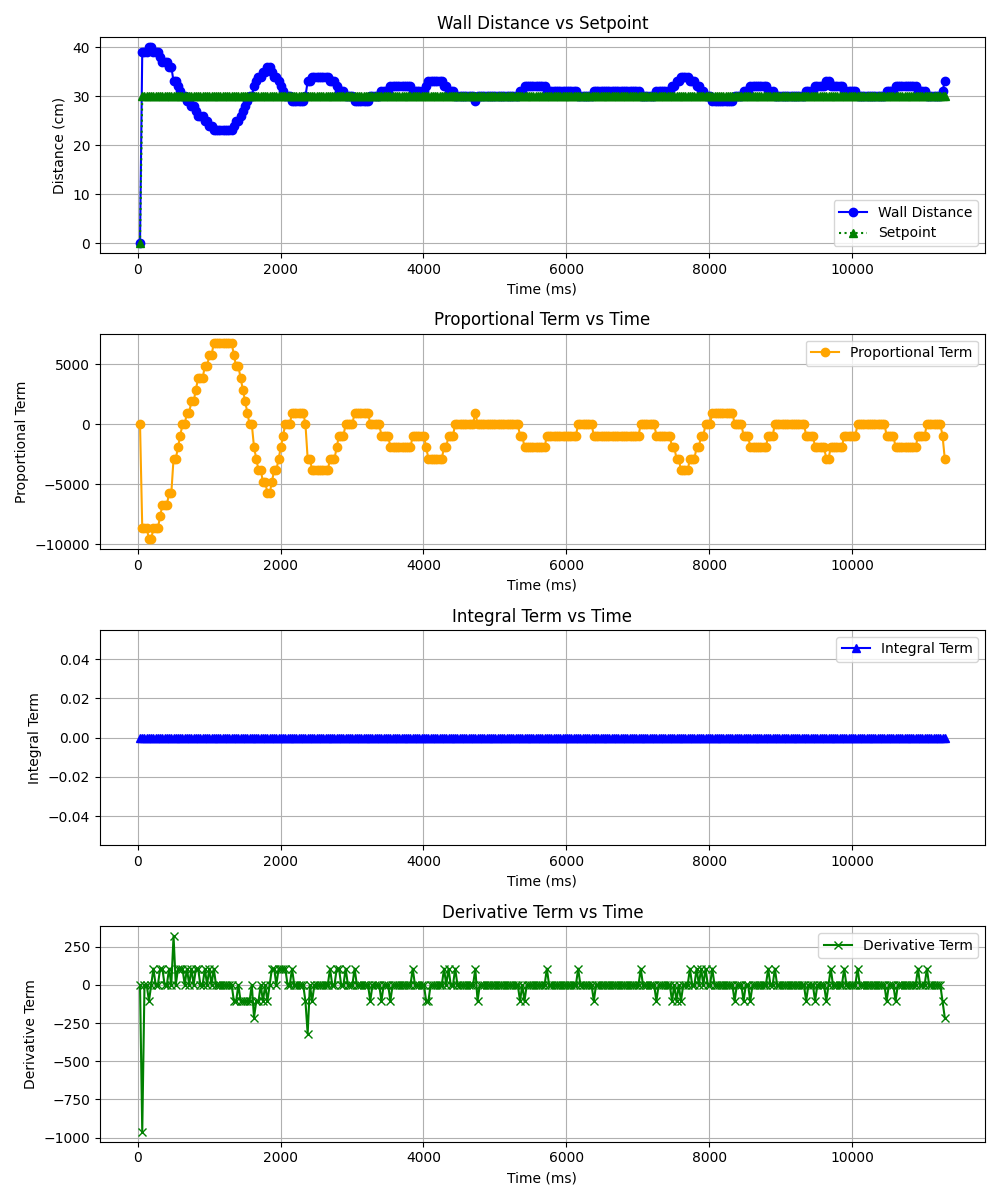
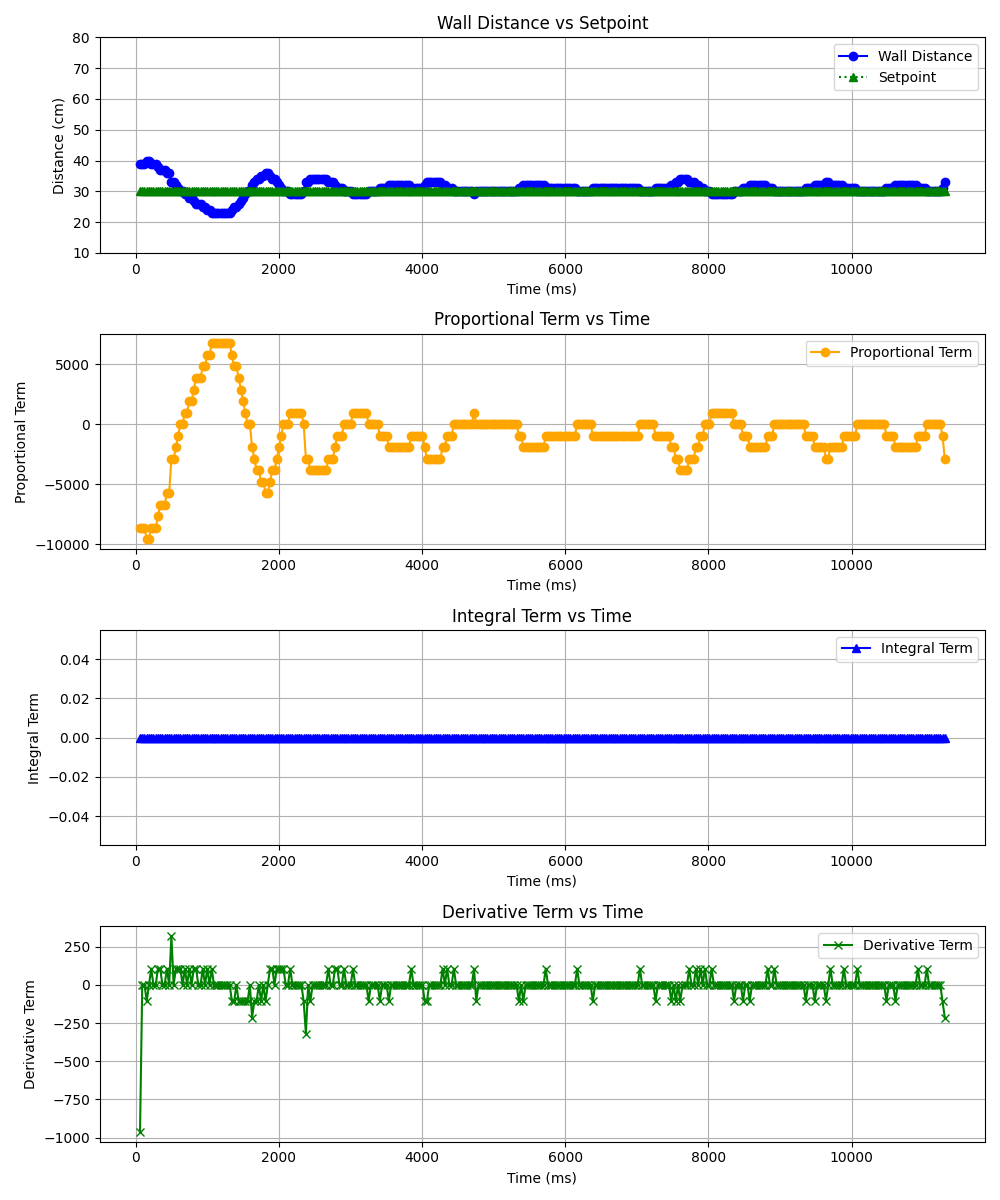
split up py scripts

diff --git a/script/pid_data_defs.py b/script/pid_data_defs.py
@@ -53,6 +53,7 @@ def plot(csv_filename,output_dir):
 		plt.xlabel('Time (ms)')
 		plt.ylabel('Distance (cm)')
 		plt.title('Wall Distance vs Setpoint')
+		plt.ylim(10,80)
 		plt.legend()
 		plt.grid(True)
 
@@ -89,6 +90,37 @@ def plot(csv_filename,output_dir):
 		# Generate output file path
 		filename = os.path.splitext(os.path.basename(csv_filename))[0]  # Get filename without extension
 		output_path = os.path.join(output_dir, f"{filename}.png")
+		
+
+		# Save plot as PNG
+		plt.savefig(output_path)
+		plt.close()  # Close the figure to prevent memory leaks
+
+		print(f"Saved plot: {output_path}")
+
+		# Read data from CSV
+		data = pd.read_csv(csv_filename)
+
+		# Create a figure with 4 subplots
+		plt.figure(figsize=(6, 6))
+
+		# Distance vs Time
+		plt.plot(data['Time (ms)'], data['Wall Distance (cm)'], marker='o', linestyle='-', color='b', label='Wall Distance')
+		plt.plot(data['Time (ms)'], data['Setpoint (cm)'], marker='^', linestyle=':', color='g', label='Setpoint')
+		plt.xlabel('Time (ms)')
+		plt.ylabel('Distance (cm)')
+		plt.ylim(10,80)
+		plt.title('Wall Distance vs Setpoint')
+		plt.legend()
+		plt.grid(True)
+
+		# Adjust layout to prevent overlap
+		plt.tight_layout()
+
+		# Generate output file path
+		filename = os.path.splitext(os.path.basename(csv_filename))[0]  # Get filename without extension
+		output_path = os.path.join(output_dir, f"{filename}single.png")
+		
 
 		# Save plot as PNG
 		plt.savefig(output_path)
@@ -109,8 +141,3 @@ def plot_all_csv(directory):
     for csv_file in csv_files:
         print(f"Processing: {csv_file}")
         plot(os.path.join(directory, csv_file),directory)
-
-# Example usage
-directory = os.getcwd()  # Get the current working directory
-plot_all_csv(os.path.join(directory,"trials"))
-#tune(os.path.join(directory,"trials", "ultimate_gain_trial_1600.csv"), 1600)

diff --git a/script/serial_csv_write.py b/script/serial_csv_write.py
@@ -6,7 +6,7 @@ import matplotlib.pyplot as plt
 import pandas as pd
 import numpy as np
 import os
-from ziegler_nichols_tuning import plot
+from pid_data_defs import plot
 
 def hex_to_signed_int(hex_str):
     value = int(hex_str, 16)

diff --git a/script/tuning.py b/script/tuning.py
@@ -1,0 +1,4 @@
+from pid_data_defs import tune
+import os
+directory = os.getcwd()  # Get the current working directory
+tune(os.path.join(directory,"trials", "ultimate_gain_trial_1600.csv"), 1600)

diff --git a/script/plot_all.py b/script/plot_all.py
@@ -1,0 +1,5 @@
+import pid_data_defs
+import os
+
+directory = os.getcwd()  # Get the current working directory
+pid_data_defs.plot_all_csv(os.path.join(directory,"trials"))
